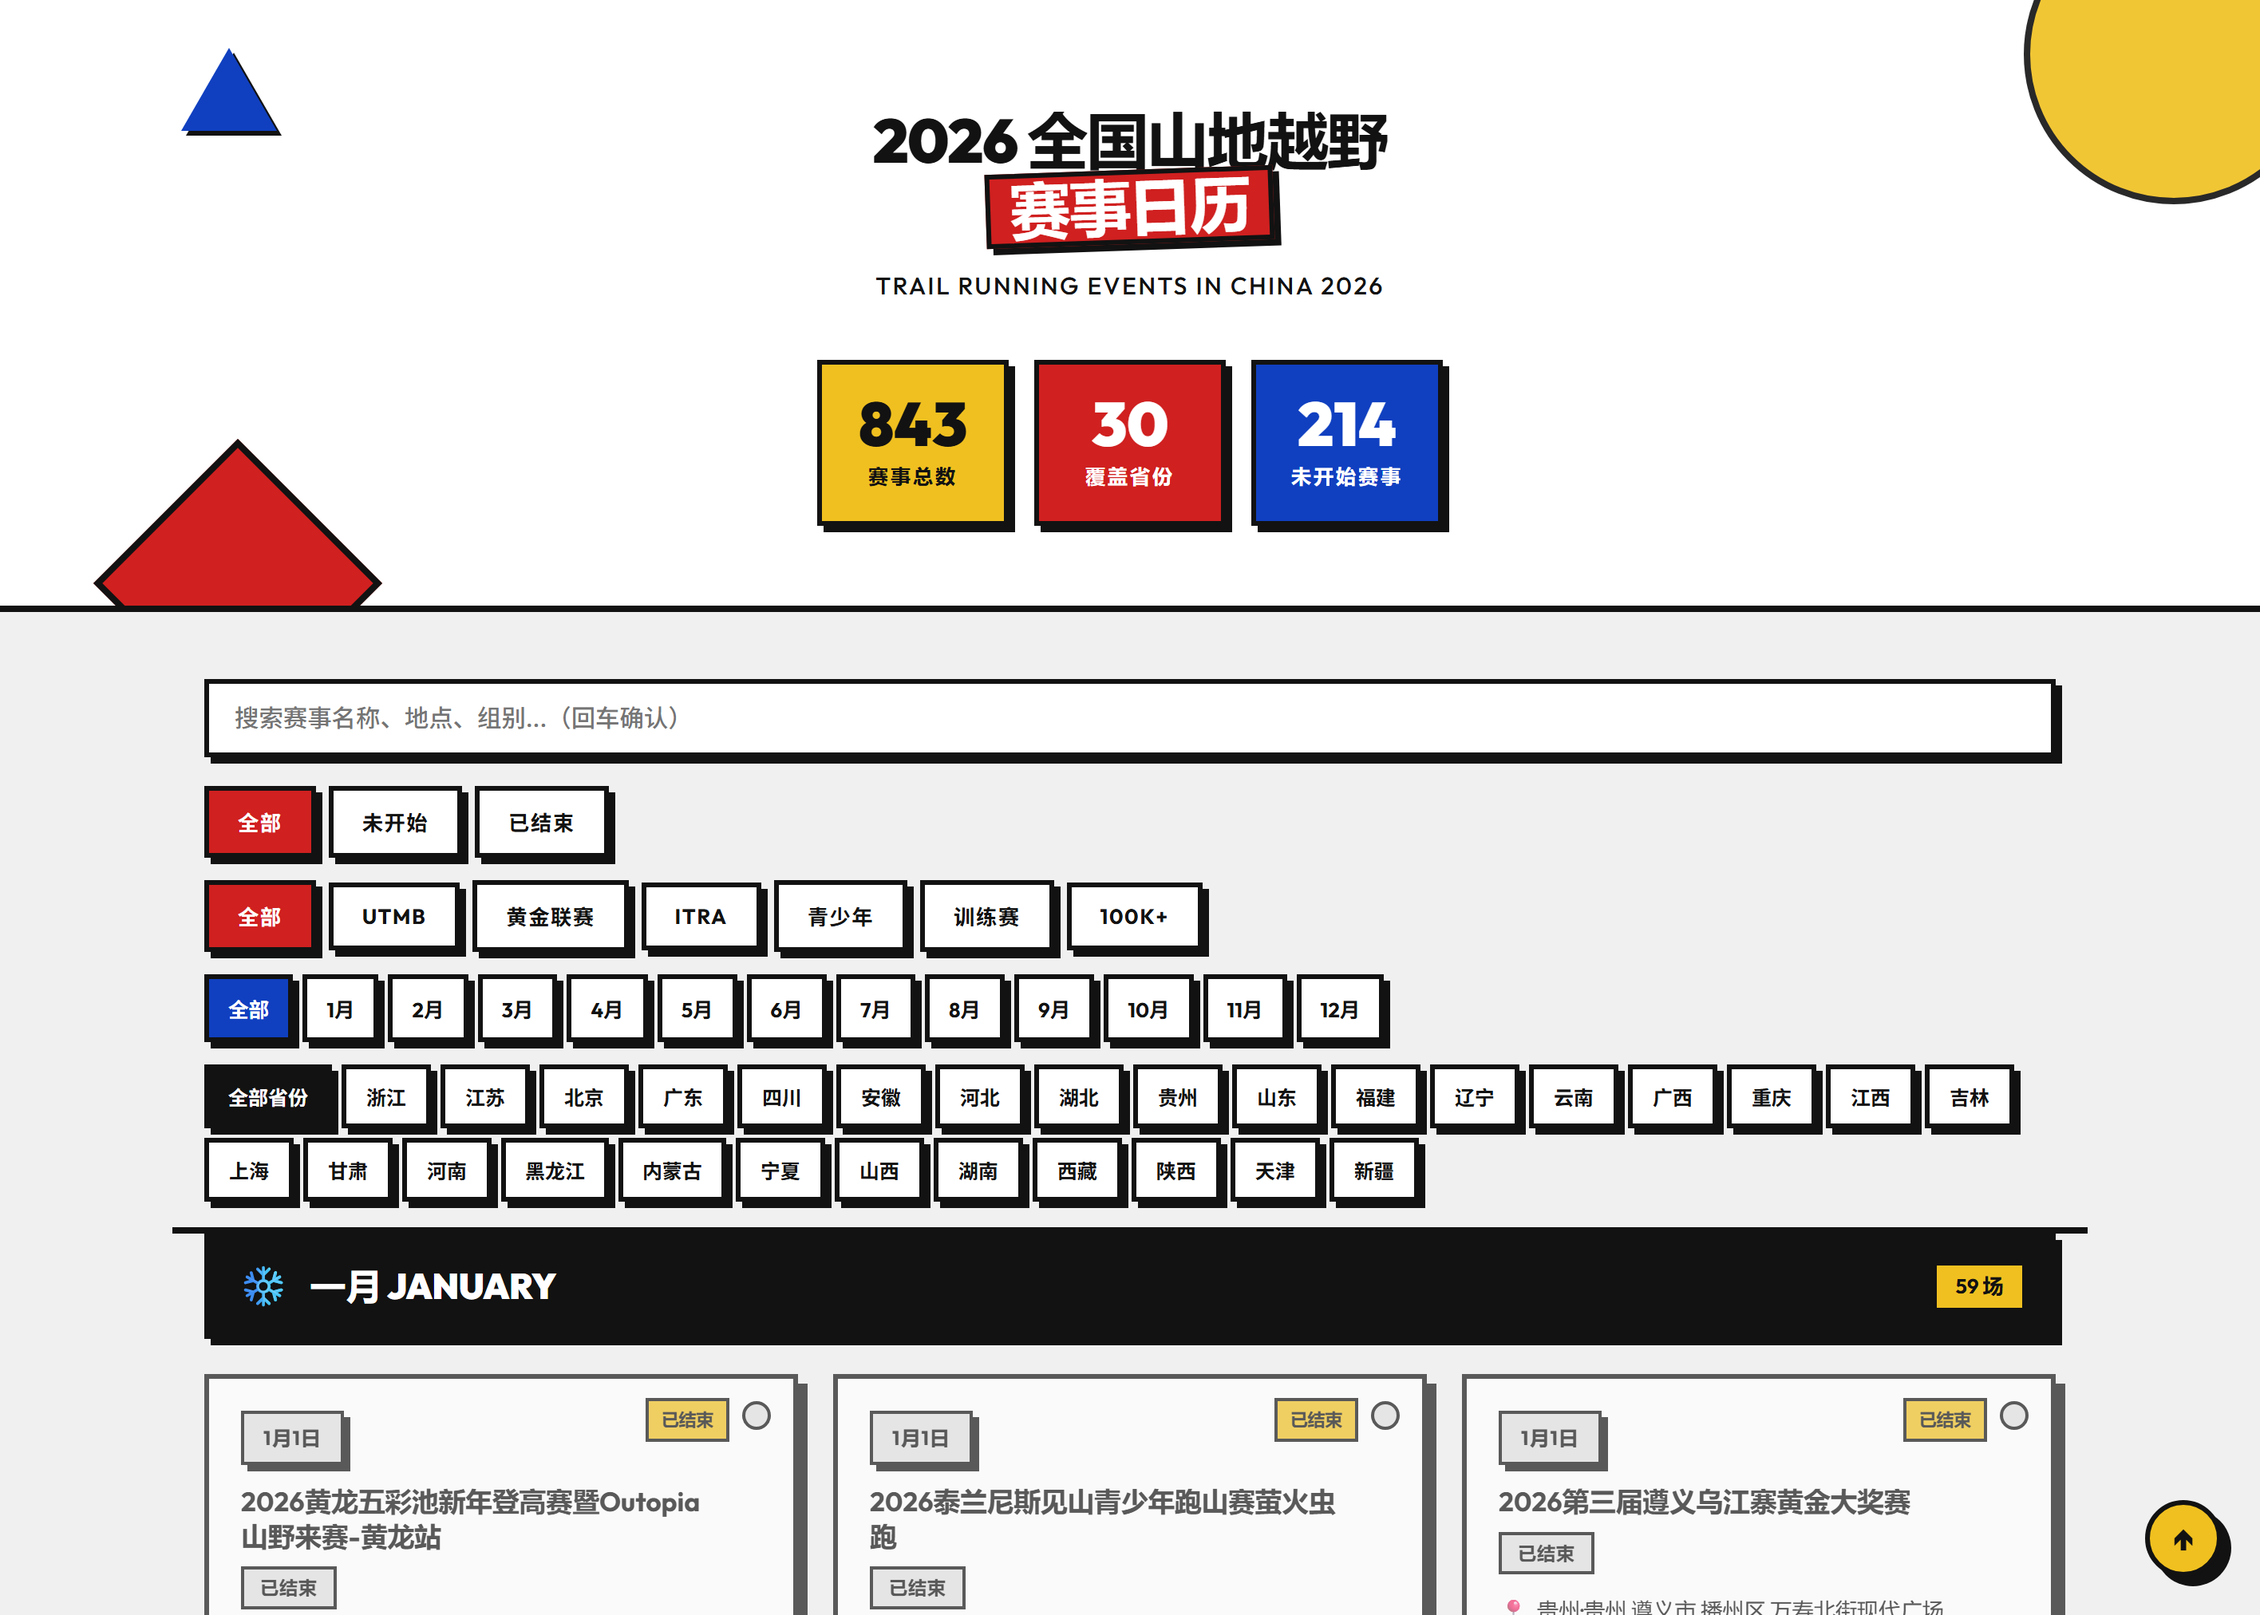
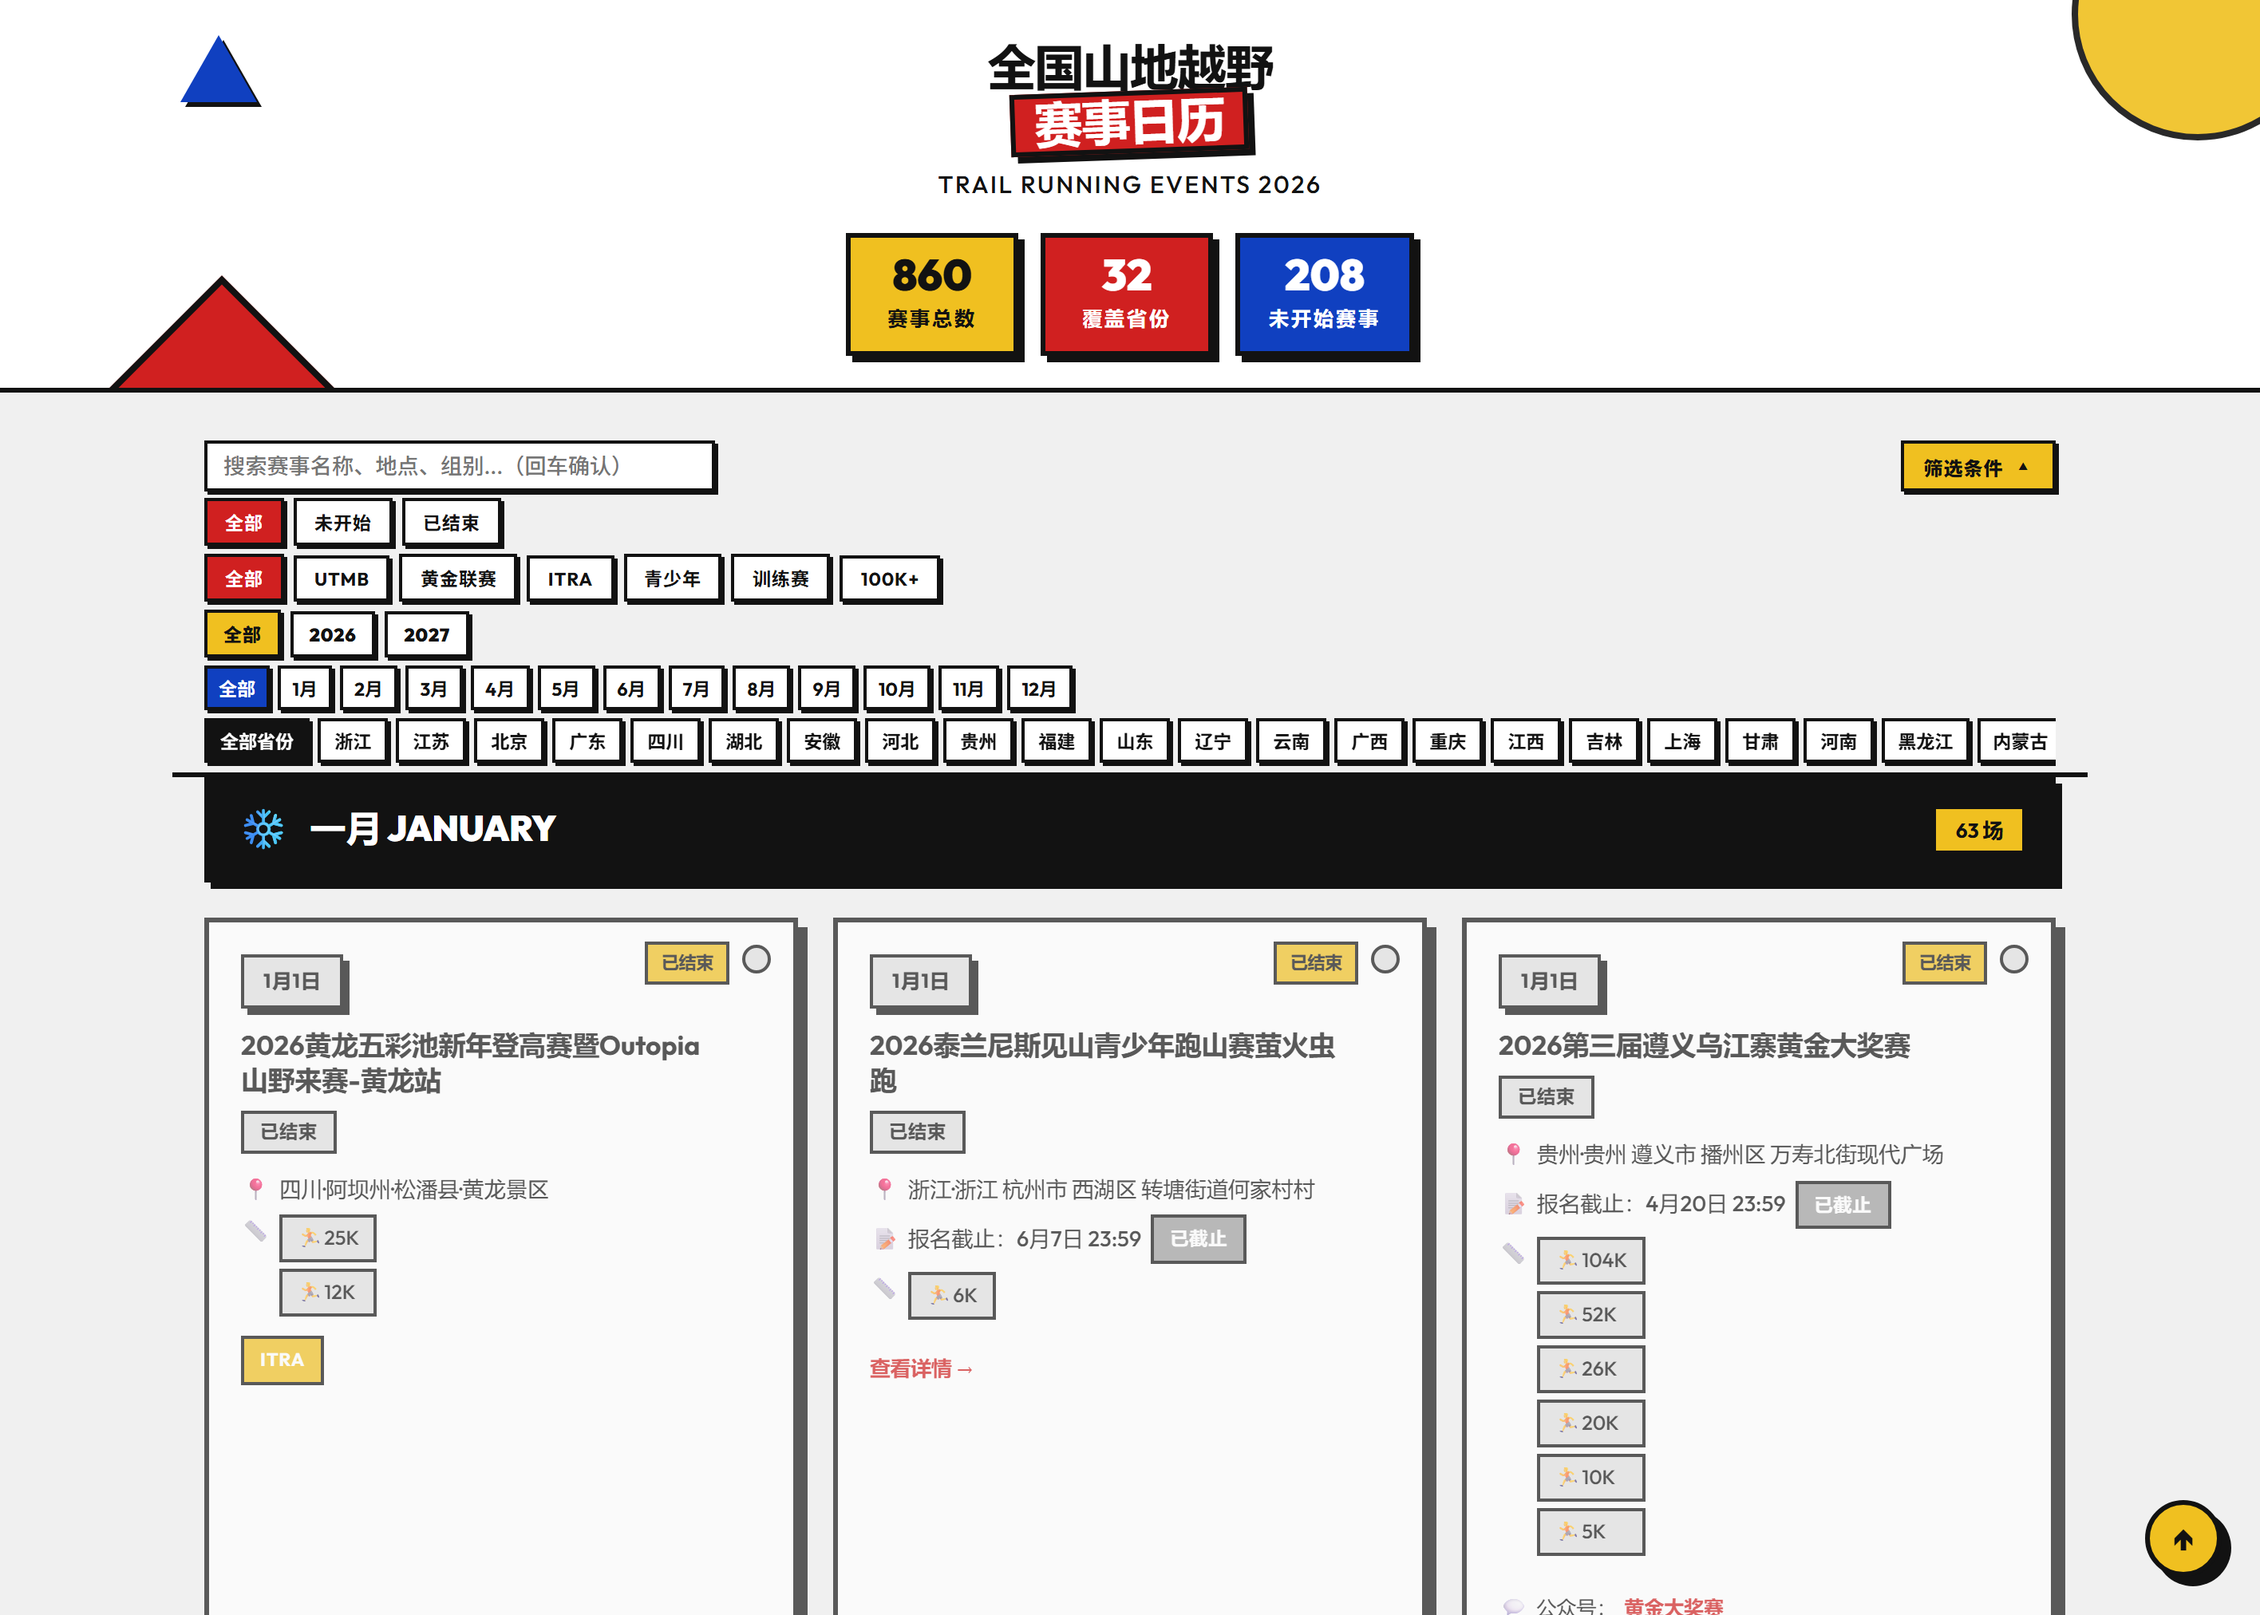
docs: 去掉品牌中的"中国/China"（保留平台专有名词）+ 更新预览图

diff --git a/template/index_Bauhaus.html b/template/index_Bauhaus.html
@@ -694,7 +694,7 @@
 <div class="hero">
     <div class="geo-deco tri"></div>
     <h1>2026 全国山地越野<br><span class="accent">赛事日历</span></h1>
-    <p>Trail Running Events in China 2026</p>
+    <p>Trail Running Events 2026</p>
     <div class="stats-bar">
         <div class="stat-item">
             <span class="stat-num" id="totalCount">0</span>

diff --git a/index.html b/index.html
@@ -849,7 +849,7 @@
 <div class="hero">
     <div class="geo-deco tri"></div>
     <h1>全国山地越野<br><span class="accent">赛事日历</span></h1>
-    <p>Trail Running Events in China 2026</p>
+    <p>Trail Running Events 2026</p>
     <div class="stats-bar">
         <div class="stat-item">
             <span class="stat-num" id="totalCount">0</span>

diff --git a/template/index.html b/template/index.html
@@ -849,7 +849,7 @@
 <div class="hero">
     <div class="geo-deco tri"></div>
     <h1>全国山地越野<br><span class="accent">赛事日历</span></h1>
-    <p>Trail Running Events in China 2026</p>
+    <p>Trail Running Events 2026</p>
     <div class="stats-bar">
         <div class="stat-item">
             <span class="stat-num" id="totalCount">0</span>

diff --git a/README.en.md b/README.en.md
@@ -1,6 +1,6 @@
-# China Trail Running Calendar 🏃⛰
+# Trail Running Calendar 🏃⛰
 
-A **daily auto-updating** calendar of trail running races across China. It crawls multiple platforms and aggregates everything into one searchable, filterable web page.
+A **daily auto-updating** calendar of trail running races. It crawls multiple platforms and aggregates everything into one searchable, filterable web page.
 
 > Data refreshes automatically every day at 00:00 (Beijing time / UTC+8). No manual maintenance needed.
 
@@ -14,7 +14,7 @@ A **daily auto-updating** calendar of trail running races across China. It crawl
 
 ## What is this
 
-Trail races in China are scattered across platforms like Zuicool and UTMB. This project collects them into **one list** with date, location, categories, elevation gain, cut-off times, and certification tags (UTMB / Golden League / ITRA / Youth / Training race), organized by month.
+Trail races are scattered across platforms like Zuicool and UTMB. This project collects them into **one list** with date, location, categories, elevation gain, cut-off times, and certification tags (UTMB / Golden League / ITRA / Youth / Training race), organized by month.
 
 Currently **840+ races** for 2026, covering 29 provinces.
 

diff --git a/project/project.md b/project/project.md
@@ -1,4 +1,4 @@
-# 项目结构与流程 — 中国越野赛事日历
+# 项目结构与流程 — 越野赛事日历
 
 本文件是这个项目的**详细上手文档**（结构 / 流程 / 改动约定），给 Claude Code 和人类协作者共用。改动项目结构/流程时，请同步更新本文件。简介与用法见 [`README.md`](../README.md)。
 

diff --git a/README.md b/README.md
@@ -1,4 +1,4 @@
-# 中国越野赛事日历 🏃⛰
+# 越野赛事日历 🏃⛰
 
 一个**每天自动更新**的全国越野跑赛事日历。自动从多个平台抓取赛事，汇总成一张可搜索、可筛选的网页。
 
